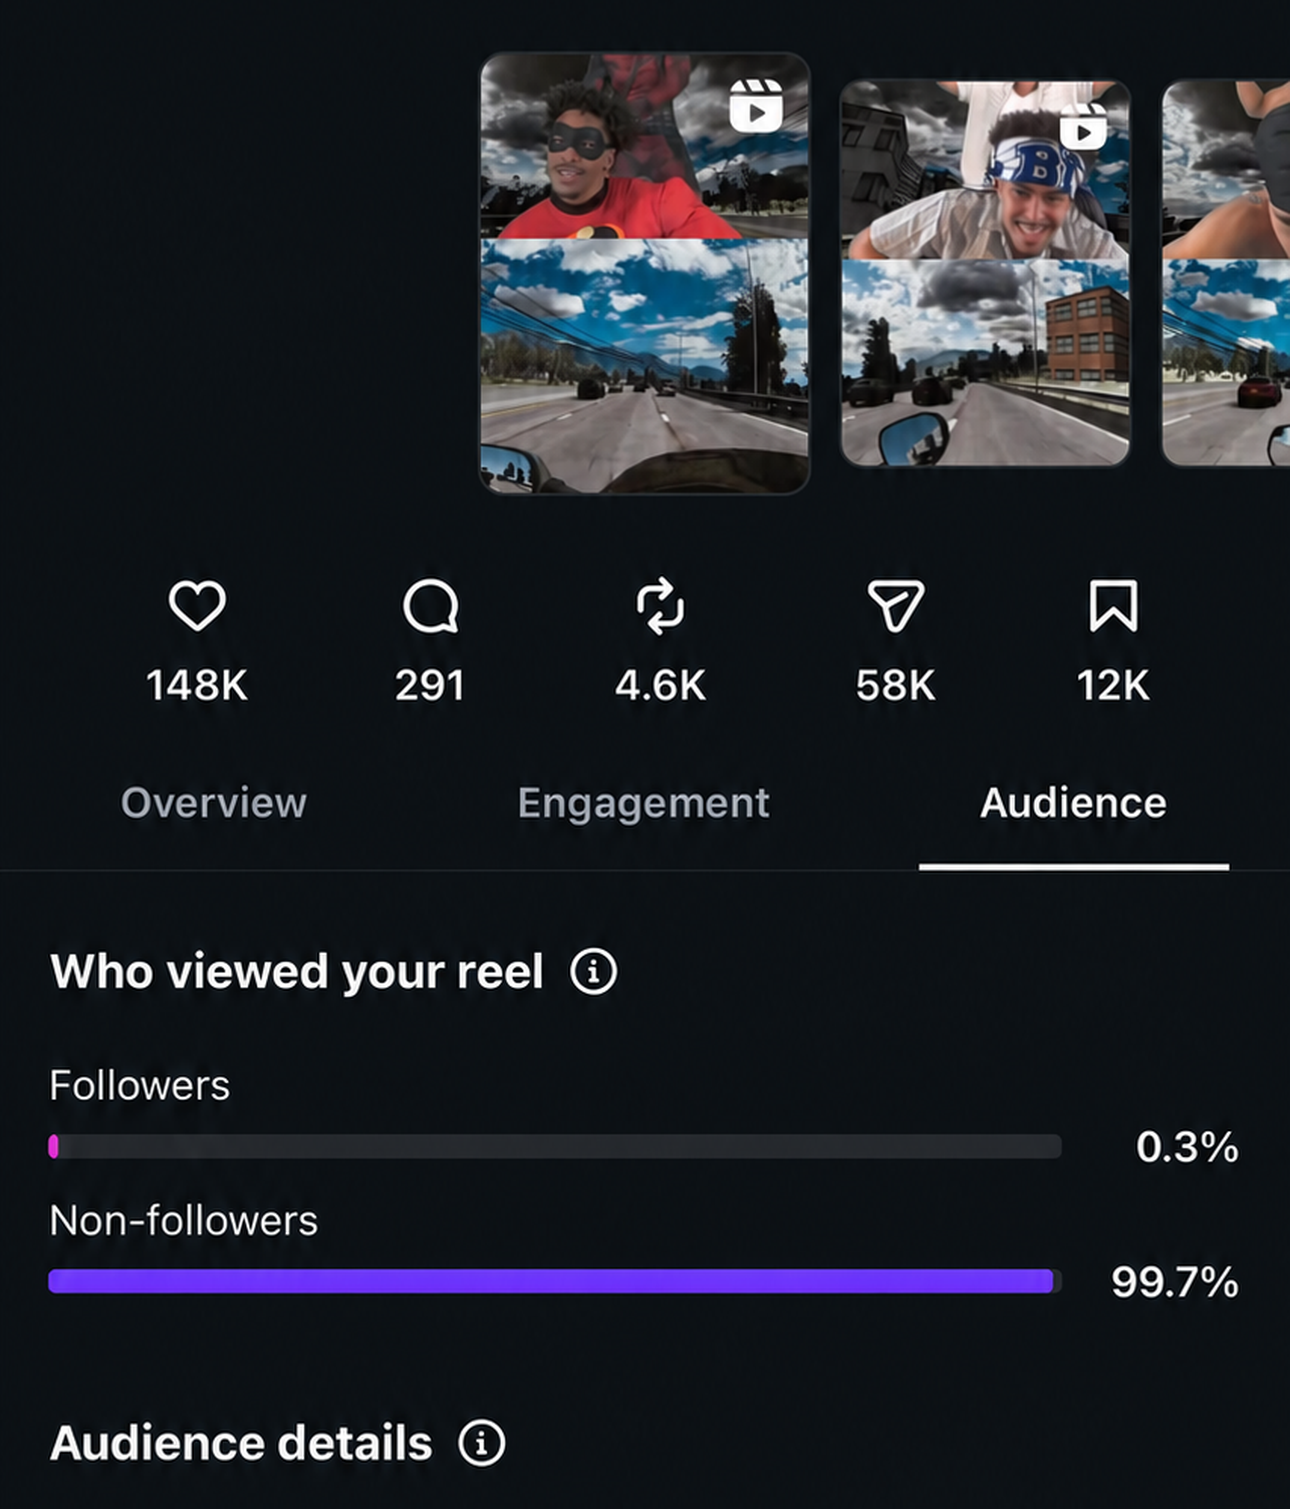
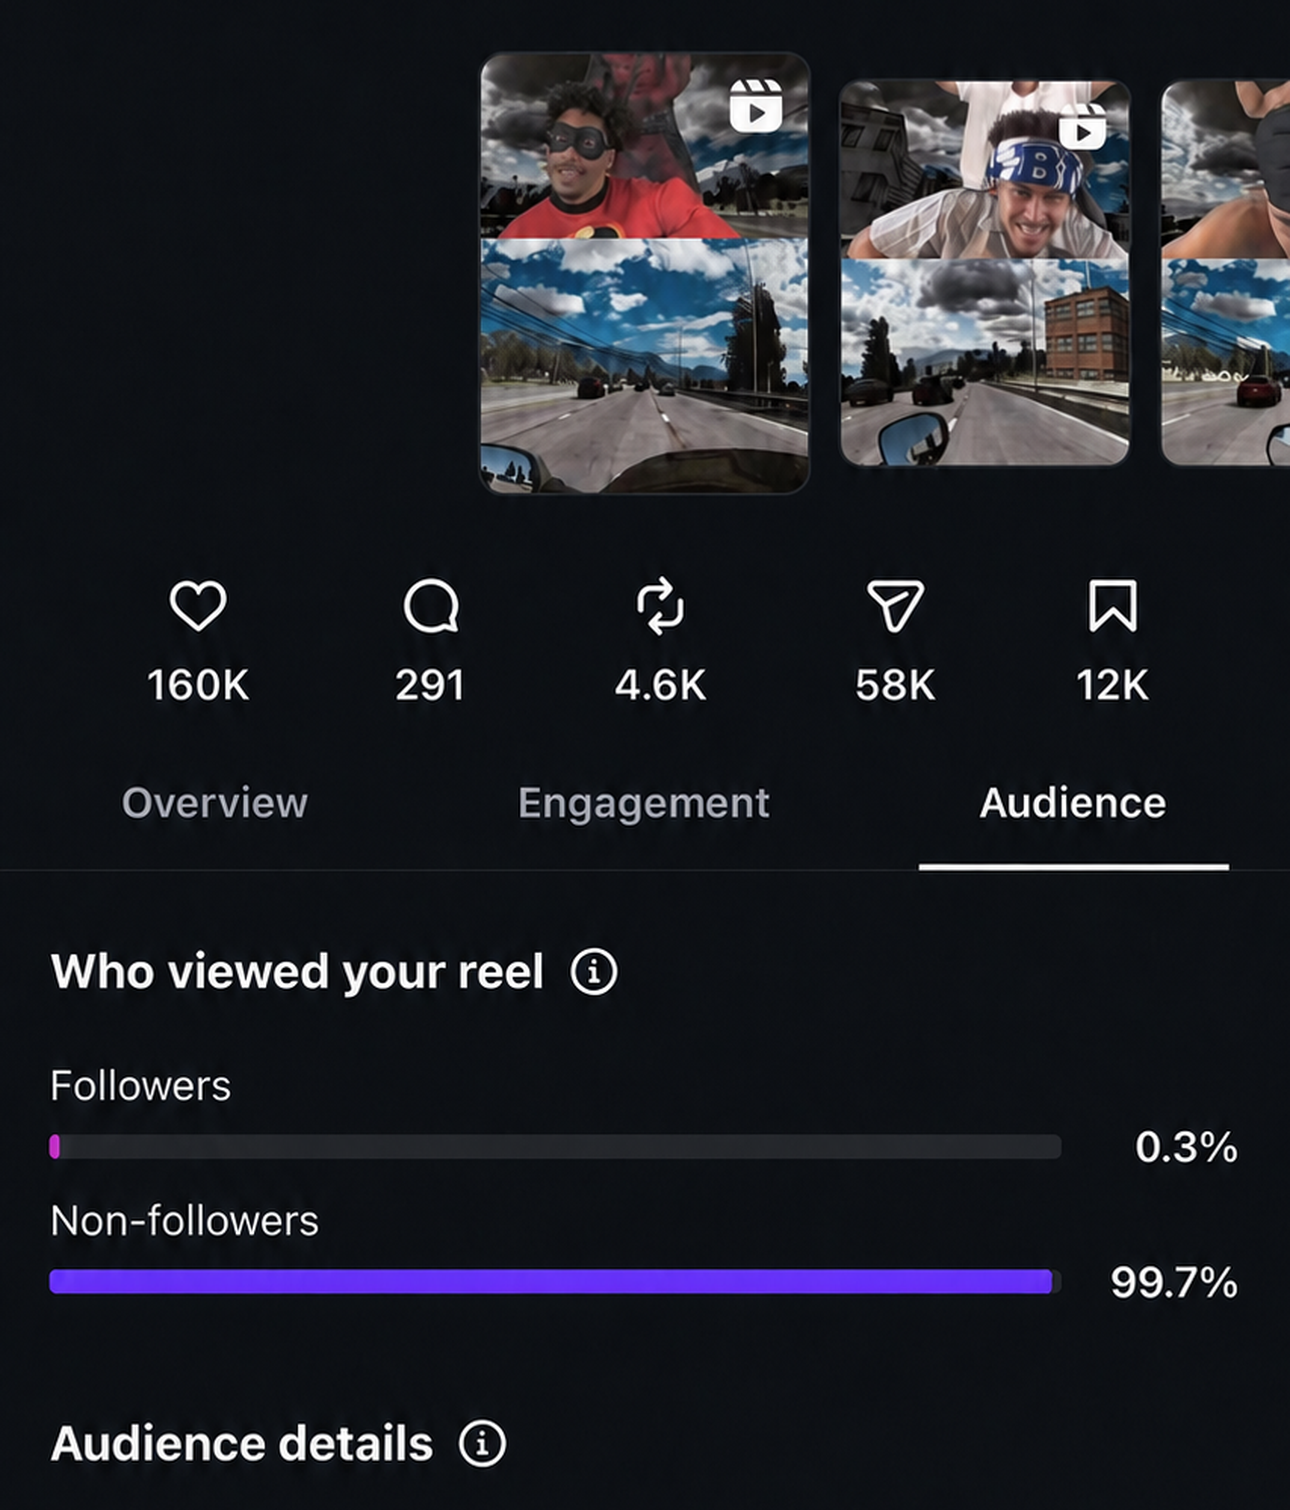
Update Meow audience Age stitch from the folder-20 screenshot.

diff --git a/new.html b/new.html
@@ -11,14 +11,14 @@
 <meta name="mobile-web-app-capable" content="yes">
 <meta name="apple-mobile-web-app-status-bar-style" content="black-translucent">
 <meta name="theme-color" content="#000000">
-<link rel="manifest" href="manifest_new.json?v=80">
-<link rel="apple-touch-icon" href="icon.png?v=80">
+<link rel="manifest" href="manifest_new.json?v=81">
+<link rel="apple-touch-icon" href="icon.png?v=81">
 <!-- native iOS launch images: iOS shows these INSTANTLY on tap (before our HTML
      loads), killing the system gray phase. Pixel-identical to the in-page splash. -->
-<link rel="apple-touch-startup-image" media="screen and (device-width: 430px) and (device-height: 932px) and (-webkit-device-pixel-ratio: 3) and (orientation: portrait)" href="launch_1290x2796.png?v=80">
-<link rel="apple-touch-startup-image" media="screen and (device-width: 393px) and (device-height: 852px) and (-webkit-device-pixel-ratio: 3) and (orientation: portrait)" href="launch_1179x2556.png?v=80">
+<link rel="apple-touch-startup-image" media="screen and (device-width: 430px) and (device-height: 932px) and (-webkit-device-pixel-ratio: 3) and (orientation: portrait)" href="launch_1290x2796.png?v=81">
+<link rel="apple-touch-startup-image" media="screen and (device-width: 393px) and (device-height: 852px) and (-webkit-device-pixel-ratio: 3) and (orientation: portrait)" href="launch_1179x2556.png?v=81">
 <title>Instagram</title>
-<script src="config.js?v=80"></script>
+<script src="config.js?v=81"></script>
 <script>
 if('serviceWorker' in navigator){
   navigator.serviceWorker.register('sw.js',{updateViaCache:'none'}).then(r=>r.update());
@@ -96,8 +96,8 @@ if('serviceWorker' in navigator){
     animation:insShine 1.4s linear infinite;}
   @keyframes insShine{from{background-position:-85% 0}to{background-position:130% 0}}
   #contentShimmer::after{
-    -webkit-mask-image:url(insights_content_shimmer_mask.png?v=80);
-    mask-image:url(insights_content_shimmer_mask.png?v=80);}
+    -webkit-mask-image:url(insights_content_shimmer_mask.png?v=81);
+    mask-image:url(insights_content_shimmer_mask.png?v=81);}
   #overviewShimmer{display:none;position:relative;overflow:hidden;width:100%;opacity:1;
     transition:opacity .38s ease;}
   #overviewShimmer.on{display:block;}
@@ -105,8 +105,8 @@ if('serviceWorker' in navigator){
   #overviewShimmer.fade{opacity:0;}
   #overviewShimmer img{display:block;width:100%;}
   #overviewShimmer::after{
-    -webkit-mask-image:url(insights_overview_shimmer_mask.png?v=80);
-    mask-image:url(insights_overview_shimmer_mask.png?v=80);}
+    -webkit-mask-image:url(insights_overview_shimmer_mask.png?v=81);
+    mask-image:url(insights_overview_shimmer_mask.png?v=81);}
   /* Overview line chart overlay — sits on the painted graph hole in the screenshot.
      Percents are of insights_overview_full.png (1290×4887): y 766–1296. */
   #viewsGraph{position:absolute;left:0;width:100%;top:15.6742%;height:10.8451%;
@@ -124,14 +124,14 @@ if('serviceWorker' in navigator){
   /* interactions: pinned header (safe-area padding, tiled real-bg strip - the /new1
      pattern) + stitched content + swipe-snap Audience carousel */
   #intHdr{position:sticky;top:0;z-index:10;padding-top:env(safe-area-inset-top,0px);
-          background:#0c1115 url(screens/n_int_hdr_bg.png?v=80) repeat-y;background-size:100% 3px;}
+          background:#0c1115 url(screens/n_int_hdr_bg.png?v=81) repeat-y;background-size:100% 3px;}
   #intHdr img{display:block;width:100%;}
   /* carousel: two snap stops (Top cities at 0, Top countries at D=1066/1290 of the
      viewport). Drag and release -> the card settles into place; ends clamp. */
   #audSnap{width:100%;overflow-x:auto;overflow-y:hidden;scroll-snap-type:x mandatory;
            -webkit-overflow-scrolling:touch;background:#0c1115;}
   #audTrack{width:182.6357%;display:flex;aspect-ratio:2356/685;
-            background:url(screens/n_aud_strip.png?v=80) no-repeat;background-size:100% 100%;}
+            background:url(screens/n_aud_strip.png?v=81) no-repeat;background-size:100% 100%;}
   #audTrack .sA{width:45.2462%;scroll-snap-align:start;}
   #audTrack .sB{width:54.7538%;scroll-snap-align:start;}
 </style>
@@ -143,7 +143,7 @@ if('serviceWorker' in navigator){
     <!-- HOME -->
     <div class="screen active" id="s-home">
       <div class="sheet">
-        <img src="screens/n_home.png?v=80">
+        <img src="screens/n_home.png?v=81">
         <div class="hot" style="left:80%;top:89%;width:20%;height:9%" onclick="goProfile()"></div>
       </div>
     </div>
@@ -151,7 +151,7 @@ if('serviceWorker' in navigator){
     <!-- PROFILE -->
     <div class="screen navpad" id="s-profile">
       <div class="sheet">
-        <img src="screens/n_profile.png?v=80">
+        <img src="screens/n_profile.png?v=81">
         <div class="hot" style="left:3%;top:36%;width:94%;height:7%" onclick="goDashboard()"></div>
       </div>
     </div>
@@ -159,7 +159,7 @@ if('serviceWorker' in navigator){
     <!-- DASHBOARD -->
     <div class="screen" id="s-dashboard">
       <div class="sheet">
-        <img id="dashImg" src="screens/n_dash.png?v=80">
+        <img id="dashImg" src="screens/n_dash.png?v=81">
         <!-- Views row -> insights. This capture has no Interactions row
              (Views / New followers / Content). Extra rows stay unwired. -->
         <div class="hot" style="left:0;top:17.8%;width:100%;height:4.8%" onclick="goInsights()"></div>
@@ -169,11 +169,11 @@ if('serviceWorker' in navigator){
     <!-- INTERACTIONS -->
     <div class="screen navpad" id="s-interactions">
       <div id="intHdr">
-        <img src="screens/n_int_header.png?v=80">
+        <img src="screens/n_int_header.png?v=81">
         <div class="hot" style="left:0;top:0;width:16%;height:58%" onclick="goBackDash()"></div>
       </div>
       <div class="sheet">
-        <img src="screens/n_int_top.png?v=80">
+        <img src="screens/n_int_top.png?v=81">
       </div>
       <div id="audSnap">
         <div id="audTrack"><div class="sA"></div><div class="sB"></div></div>
@@ -184,7 +184,7 @@ if('serviceWorker' in navigator){
     <!-- INSIGHTS -->
     <div class="screen" id="s-insights">
       <div id="insHeader">
-        <img id="h-overview" class="insTabImg on" src="insights_overview_header2.png?v=80">
+        <img id="h-overview" class="insTabImg on" src="insights_overview_header2.png?v=81">
         <img id="h-content" class="insTabImg" alt="">
         <img id="h-audience" class="insTabImg" alt="">
         <div class="hot" style="left:0;top:65%;width:33.3%;height:35%" onclick="insTab('overview')"></div>
@@ -193,11 +193,11 @@ if('serviceWorker' in navigator){
       </div>
       <div id="insScroller">
         <div id="insContent">
-          <img id="c-overview" class="insTabImg on" src="insights_overview_full.png?v=80">
+          <img id="c-overview" class="insTabImg on" src="insights_overview_full.png?v=81">
           <img id="c-content" class="insTabImg" alt="">
           <img id="c-audience" class="insTabImg" alt="">
-          <div id="overviewShimmer"><img src="insights_overview_shimmer.png?v=80" alt=""></div>
-          <div id="contentShimmer"><img src="insights_content_shimmer.png?v=80" alt=""></div>
+          <div id="overviewShimmer"><img src="insights_overview_shimmer.png?v=81" alt=""></div>
+          <div id="contentShimmer"><img src="insights_content_shimmer.png?v=81" alt=""></div>
           <div id="viewsGraph"></div>
           <div id="followsGraph"></div>
           <div id="reelHot" class="hot" onclick="goReel()"></div>
@@ -209,25 +209,25 @@ if('serviceWorker' in navigator){
     <!-- REEL INSIGHTS (Meow meow) -->
     <div class="screen" id="s-reel">
       <div id="reelHeader">
-        <img src="insights_reel_header.png?v=80">
+        <img src="insights_reel_header.png?v=81">
         <div class="hot" style="left:0;top:49%;width:18%;height:51%" onclick="goBackInsights()"></div>
       </div>
       <div id="reelScroller">
         <div id="reelContent">
           <div id="r-overview" class="reelTab on">
-            <img src="insights_reel_full.png?v=80">
+            <img src="insights_reel_full.png?v=81">
             <!-- Audience tab cell of insights_reel_full.png (1290x6607): y 750-890 -->
             <div class="hot" style="left:62%;top:11.35%;width:38%;height:2.12%" onclick="reelTab('aud')"></div>
           </div>
           <div id="r-audience" class="reelTab">
             <div style="position:relative">
-              <img src="insights_reelaud_top.png?v=80">
-              <!-- Overview tab cell of insights_reelaud_top.png (1290x1509): y 750-890 -->
+              <img src="insights_reelaud_top.png?v=81">
+              <!-- Overview tab cell of insights_reelaud_top.png (1290x1510): y 750-890 -->
               <div class="hot" style="left:0;top:49.7%;width:36%;height:9.3%" onclick="reelTab('ov')"></div>
             </div>
             <div style="position:relative">
-              <img id="raAge" src="insights_reelaud_age.png?v=80">
-              <img id="raCty" src="insights_reelaud_cty.png?v=80" style="display:none">
+              <img id="raAge" src="insights_reelaud_age.png?v=81">
+              <img id="raCty" src="insights_reelaud_cty.png?v=81" style="display:none">
               <!-- Age / Country pills sit at the top of both swap images (bubbles y 40-155 of 1290-wide) -->
               <div class="hot" style="left:3%;top:2.3vw;width:14%;height:10.6vw" onclick="raSel('age')"></div>
               <div class="hot" style="left:17.5%;top:2.3vw;width:20%;height:10.6vw" onclick="raSel('cty')"></div>
@@ -240,25 +240,25 @@ if('serviceWorker' in navigator){
     <!-- REEL 2 INSIGHTS (Riding with the bro) -->
     <div class="screen" id="s-reel2">
       <div id="reel2Header">
-        <img src="insights_reel_header.png?v=80">
+        <img src="insights_reel_header.png?v=81">
         <div class="hot" style="left:0;top:49%;width:18%;height:51%" onclick="goBackInsights()"></div>
       </div>
       <div id="reel2Scroller">
         <div id="reel2Content">
           <div id="r2-overview" class="reelTab on">
-            <img src="insights_reel2_full.png?v=80">
+            <img src="insights_reel2_full.png?v=81">
             <!-- Audience tab cell of insights_reel2_full.png (1290x2420): y 750-890 -->
             <div class="hot" style="left:62%;top:31.0%;width:38%;height:5.79%" onclick="reel2Tab('aud')"></div>
           </div>
           <div id="r2-audience" class="reelTab">
             <div style="position:relative">
-              <img src="insights_reel2aud_top.png?v=80">
+              <img src="insights_reel2aud_top.png?v=81">
               <!-- Overview tab cell of insights_reel2aud_top.png (1290x1511): y 750-895 -->
               <div class="hot" style="left:0;top:49.6%;width:36%;height:9.3%" onclick="reel2Tab('ov')"></div>
             </div>
             <div style="position:relative">
-              <img id="ra2Age" src="insights_reel2aud_age.png?v=80">
-              <img id="ra2Cty" src="insights_reel2aud_cty.png?v=80" style="display:none">
+              <img id="ra2Age" src="insights_reel2aud_age.png?v=81">
+              <img id="ra2Cty" src="insights_reel2aud_cty.png?v=81" style="display:none">
               <div class="hot" style="left:3%;top:2.3vw;width:14%;height:10.6vw" onclick="ra2Sel('age')"></div>
               <div class="hot" style="left:17.5%;top:2.3vw;width:20%;height:10.6vw" onclick="ra2Sel('cty')"></div>
             </div>
@@ -268,7 +268,7 @@ if('serviceWorker' in navigator){
     </div>
 
   </div>
-  <div id="insLoading"><img id="loadImg" src="screens/ins_spinner_c.png?v=80"></div>
+  <div id="insLoading"><img id="loadImg" src="screens/ins_spinner_c.png?v=81"></div>
 </div>
 <script>
   // ---- live profile stat numbers (posts/followers/following) ----
@@ -335,7 +335,7 @@ if('serviceWorker' in navigator){
     document.body.style.background = '#0d1115';
   });
 
-  const ASSET_V = '?v=80';   // bump when any screen image changes (cache-bust mobile)
+  const ASSET_V = '?v=81';   // bump when any screen image changes (cache-bust mobile)
   const el = id => document.getElementById(id);
   // Flow-model navigation: exactly one screen is .active (in normal flow, so it sets
   // the document height and iOS places the safe areas naturally). Transitions overlay

diff --git a/sw.js b/sw.js
@@ -4,7 +4,7 @@
 // background. If the background refresh finds a NEW app shell, clients are notified
 // so they can silently reload while the splash still covers the screen.
 // Bump CACHE on each deploy; activate purges older caches.
-const CACHE = 'ig-v80';
+const CACHE = 'ig-v81';
 
 self.addEventListener('install', () => self.skipWaiting());
 

diff --git a/screens/CROP.md b/screens/CROP.md
@@ -73,10 +73,10 @@ Content’s first row opens a separate screen (`#s-reel`), not the main Insights
 
 ### Reel Audience tab (Meow meow)
 
-The reel body’s baked-in tabs row (y 750–890 of `insights_reel_full.png`) switches to `#r-audience` via hotspot; scroll position is kept so the tab row stays put (both bodies share identical thumbnail/stats/tab layout, ±1 px). Sources: folder `(16)` `age1.png` / `age2.png` / `country.png`, scaled to 1290, top 177 px painted. Note their stats row reads 151K/14 while Overview reads 160K/12K (user-supplied data).
+The reel body’s baked-in tabs row (y 750–890 of `insights_reel_full.png`) switches to `#r-audience` via hotspot; scroll position is kept so the tab row stays put (both bodies share identical thumbnail/stats/tab layout, ±1 px). Top + Age pills/rows through 35–44 are folder `(20)` `379161B4-…png` (scaled to 1290, top 177 px painted). Country bottom and the 45–54→65+ tail are still folder `(16)`. Stats on the folder-20 shot match Overview (160K/291/4.6K/58K/12K).
 
-1. `insights_reelaud_top.png` (1290×1509) = folder `(19)` `FC360A6C-…png` `y = 360 … 1869` — thumbnails, stats (148K/291/4.6K/58K/12K), tabs (Audience underlined), Who viewed, Audience details heading. Cut 40 px above the pills at 1909. Same geometry as the original `age1` piece, so hotspots are unchanged.
-2. `insights_reelaud_age.png` (1290×1409) = `age2` `y = 1369 … 2778` — pills (Age selected) + all seven age rows + natural bottom (trim the bottom-edge dim rows past 2778). `age2` is `age1` scrolled by exactly 500 px.
+1. `insights_reelaud_top.png` (1290×1510) = folder `(20)` `379161B4-…png` `y = 360 … 1870` — thumbnails, stats (160K/291/4.6K/58K/12K), tabs (Audience underlined), Who viewed, Audience details heading. Cut 40 px above the pills at 1910. Same geometry as the original `age1` piece (±1 px), so hotspots are unchanged.
+2. `insights_reelaud_age.png` (1290×1409) = folder `(20)` `y = 1870 … 2610` (pills + 13–17 7.1% through 35–44 12.8%) + folder `(16)` `age2` `y = 2109 … 2778` (45–54 5.2% / 55–64 1.9% / 65+ 1.4% + natural bottom). Folder 20 clips 45–54 at the home indicator, so those three rows stay on `age2`. Inner seam sits in the empty gap after 35–44. Height matches the original swap image, so pill hotspots are unchanged.
 3. `insights_reelaud_cty.png` (1290×1116) = `country` `y = 1869 … 2790` + that shot’s empty bg `y = 2725 … 2790` tiled ×3 for scroll clearance.
 4. Age/Country pill hotspots: bubbles at swap-image y 40–155; Age x 48–213, Country x 237–476. Gender is inert. Swap is instant (`raSel`), no shimmer.
 
